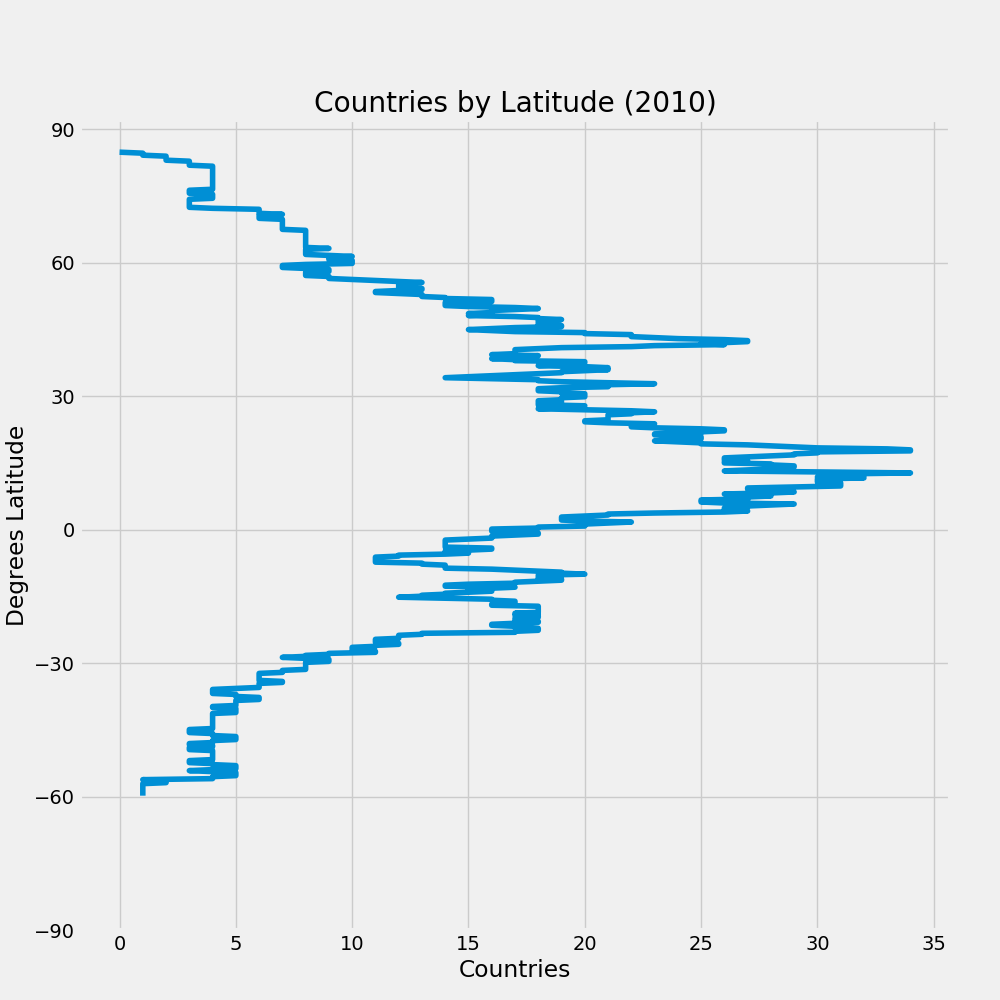
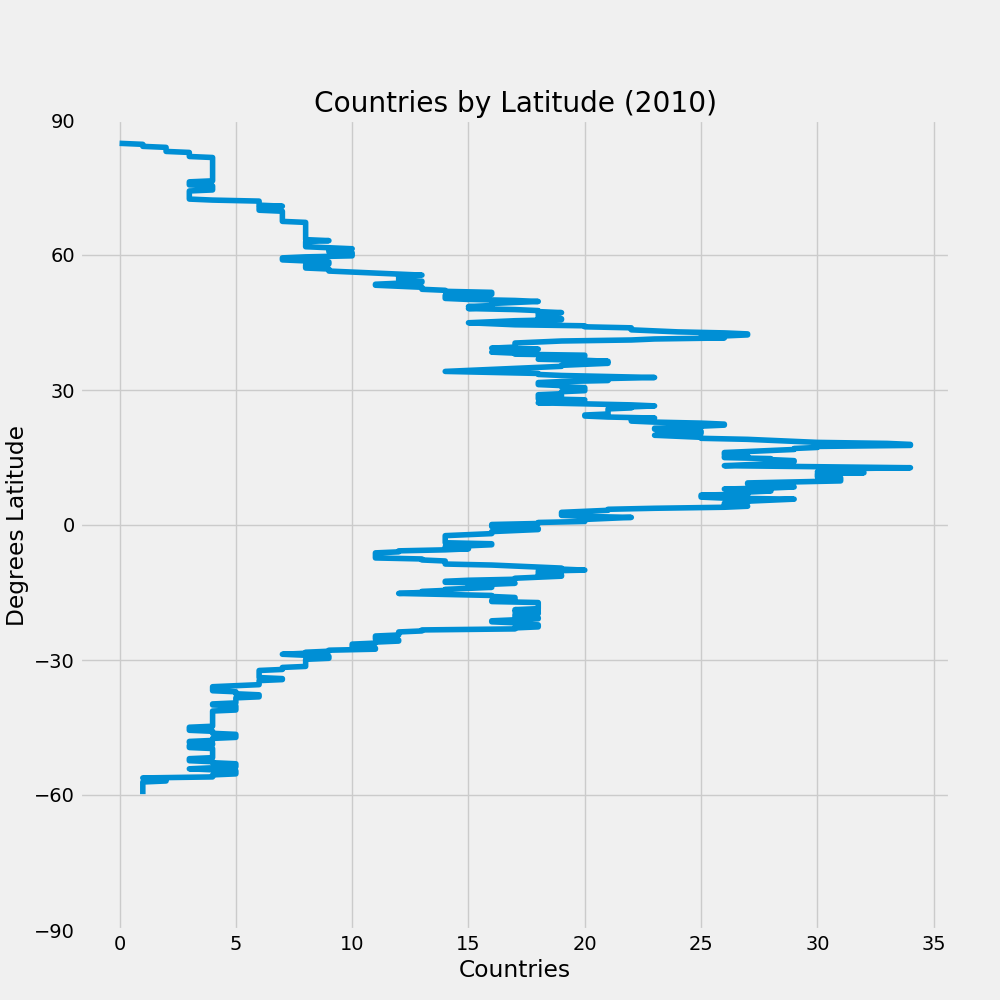
update plots: add lim, format millions

diff --git a/ui/js/app.js b/ui/js/app.js
@@ -5,12 +5,12 @@ var App = (function() {
   function App(config) {
     var defaults = {
       "data": [
-        {"el": "#anomaly", "url": "data/anomaly.json", "type": "bar", "append": "°C"},
-        {"el": "#emissions", "url": "data/emissions.json", "type": "bar", "append": "M"},
-        {"el": "#gdp", "url": "data/gdp.json", "type": "bar", "prepend": "$"},
+        {"el": "#anomaly", "url": "data/anomaly.json", "type": "bar", "append": "°C", "chart": "ui/img/plot/plot_anomaly.png"},
+        {"el": "#emissions", "url": "data/emissions.json", "type": "bar", "append": "M", "chart": "ui/img/plot/plot_emissions.png"},
+        {"el": "#gdp", "url": "data/gdp.json", "type": "bar", "prepend": "$", "chart": "ui/img/plot/plot_gdp.png"},
         {"el": "#population", "url": "data/pop_count.json", "type": "bar", "chart": "ui/img/plot/plot_pop_count.png"},
-        {"el": "#temperature", "url": "data/temperature.json", "type": "bar", "append": "°C"},
-        {"el": "#vegetation", "url": "data/vegetation.json", "type": "bar"},
+        {"el": "#temperature", "url": "data/temperature.json", "type": "bar", "append": "°C", "chart": "ui/img/plot/plot_temperature.png"},
+        {"el": "#vegetation", "url": "data/vegetation.json", "type": "bar", "chart": "ui/img/plot/plot_vegetation.png"},
         {"el": "#cities", "url": "data/cities.json", "type": "list"},
         {"el": "#surface", "url": "data/land.json", "label": "Land", "type": "pie"},
         {"el": "#surface", "label": "Water", "type": "pie"},

diff --git a/processData.py b/processData.py
@@ -128,11 +128,17 @@ def drawPlot(xy, filename, title, label):
     plt.figure(figsize=(10,10))
     x = [lerp((90, -90), v[0]) for v in xy]
     y = [v[1] for v in xy]
+    maxY = max(y)
+    appendString = ""
+    if maxY > 1000000:
+        y = [v/1000000.0 for v in y]
+        appendString = " (millions)"
     plt.plot(y, x)
     plt.title(title)
-    plt.xlabel(label)
+    plt.xlabel(label+appendString)
     plt.ylabel("Degrees Latitude")
-    plt.yticks(np.arange(-90, 91, step=30))
+    plt.yticks(np.arange(-90, 95, step=30))
+    plt.ylim((-90, 90))
     plt.savefig(filename)
     plt.close()
     print("Saved %s" % filename)
